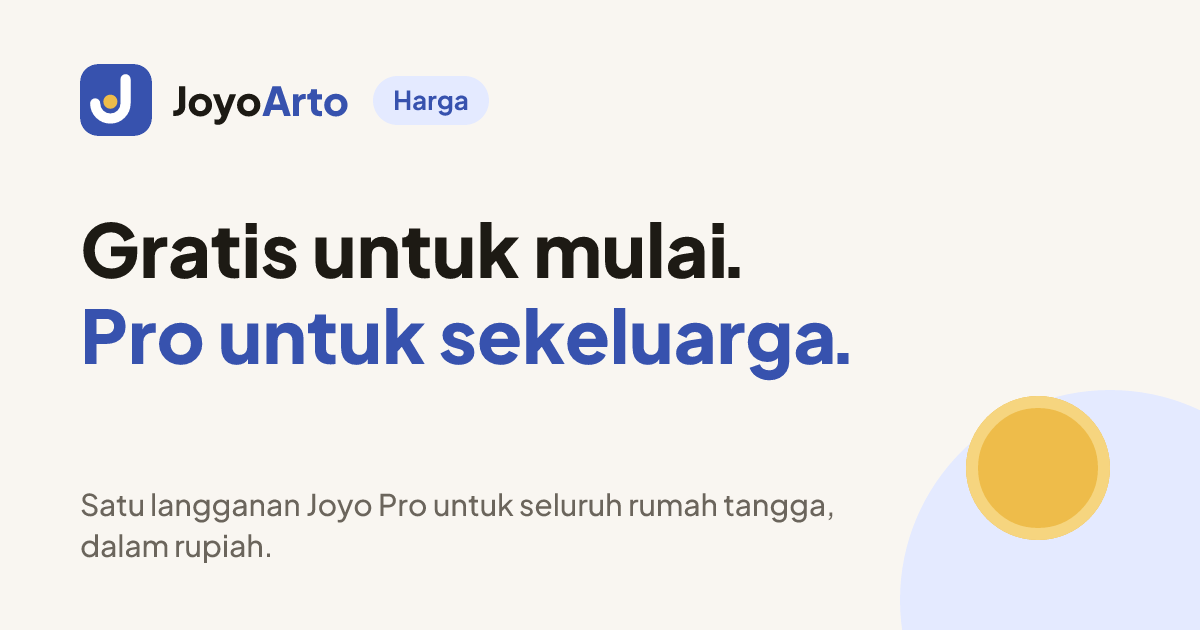
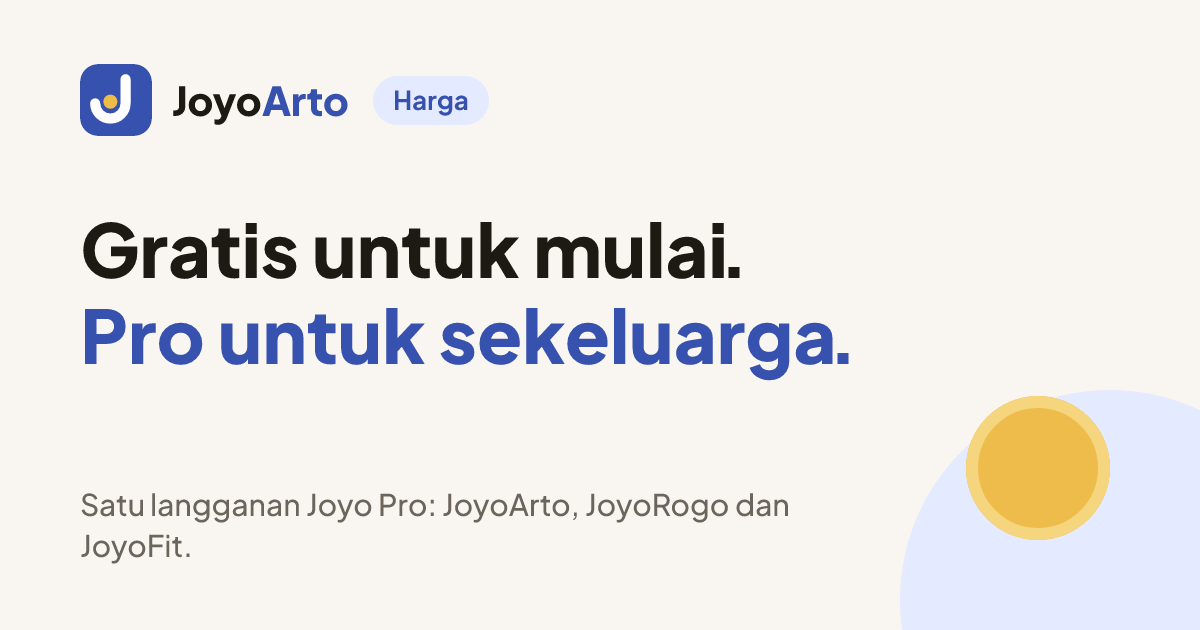
SEO: FAQ and pricing meta follow Joyo Pro per account; regenerate OG images

Changed region(s): [[0.3392, 0.7841, 0.7092, 0.8444], [0.0617, 0.8444, 0.2158, 0.9048]]

diff --git a/apps/web/src/lib/seo.ts b/apps/web/src/lib/seo.ts
@@ -42,8 +42,8 @@ export const OG = {
     file: "og/pricing.png",
     eyebrow: "Harga",
     title: ["Gratis untuk mulai.", "Pro untuk sekeluarga."],
-    sub: "Satu langganan Joyo Pro untuk seluruh rumah tangga, dalam rupiah.",
-    alt: "Harga JoyoArto: gratis untuk mulai, Joyo Pro untuk seluruh rumah tangga.",
+    sub: "Satu langganan Joyo Pro: JoyoArto, JoyoRogo dan JoyoFit.",
+    alt: "Harga JoyoArto: gratis untuk mulai, Joyo Pro satu langganan untuk JoyoArto, JoyoRogo dan JoyoFit.",
   }),
   legal: card({
     file: "og/legal.png",
@@ -73,7 +73,7 @@ export const FAQ: { q: string; a: string }[] = [
   },
   {
     q: "Berapa harganya?",
-    a: "Ada paket Free (catat manual, CSV, 2 import statement sebulan) dan Pro untuk seluruh rumah tangga, dalam rupiah, bayar per bulan atau per tahun. Rumah tangga yang beli lebih awal dapat harga founder. Kalau mau gratis sepenuhnya, kodenya open source: silakan host sendiri.",
+    a: "Ada paket Free (catat manual, CSV, 2 import statement sebulan) dan Joyo Pro: satu langganan per akun yang juga membuka Pro di JoyoRogo dan JoyoFit, dibeli di JoyoRogo per bulan atau per tahun. Harga terbarunya ada di halaman Harga. Kalau mau gratis sepenuhnya, kodenya open source: silakan host sendiri.",
   },
   {
     q: "Apakah JoyoArto nyambung langsung ke rekening bank?",
@@ -155,7 +155,7 @@ export const PAGES: PublicPage[] = [
     sources: ["src/routes/pricing.tsx", "src/components/pricing.tsx"],
     title: "Harga JoyoArto: Gratis untuk Mulai, Joyo Pro untuk Keluarga",
     description:
-      "Mulai gratis. Joyo Pro untuk seluruh rumah tangga: import e-statement tanpa batas, konektor Claude dan simulasi rencana keuangan keluarga. Harga dalam rupiah.",
+      "Mulai gratis. Joyo Pro, satu langganan untuk JoyoArto, JoyoRogo dan JoyoFit: import e-statement tanpa batas, konektor Claude dan simulasi rencana keluarga.",
     og: OG.pricing,
     priority: 0.8,
     body: pricingBody,
@@ -356,7 +356,7 @@ function demoBody(): string {
 function pricingBody(): string {
   return wrap(
     `<h1>Harga JoyoArto</h1>` +
-      `<p>Gratis untuk mulai: catat manual, quick add, import CSV dan beberapa import statement sebulan. Joyo Pro untuk seluruh rumah tangga: import e-statement tanpa batas, konektor Claude (MCP), simulasi rencana yang disimpan, dan lebih banyak anggota. Satu langganan, semua anggota rumah tangga ikut Pro. Harga dalam rupiah.</p>` +
+      `<p>Gratis untuk mulai: catat manual, quick add, import CSV dan beberapa import statement sebulan. Joyo Pro, satu langganan per akun yang juga membuka Pro di JoyoRogo dan JoyoFit: import e-statement tanpa batas, konektor Claude (MCP), simulasi rencana yang disimpan, dan lebih banyak anggota. Dibeli di JoyoRogo, harga dalam rupiah.</p>` +
       `<p>Kodenya open source (AGPL), jadi kamu juga bisa host sendiri secara gratis. <a href="https://app.arto.joyorogo.com/login">Mulai gratis</a>.</p>`,
   );
 }
